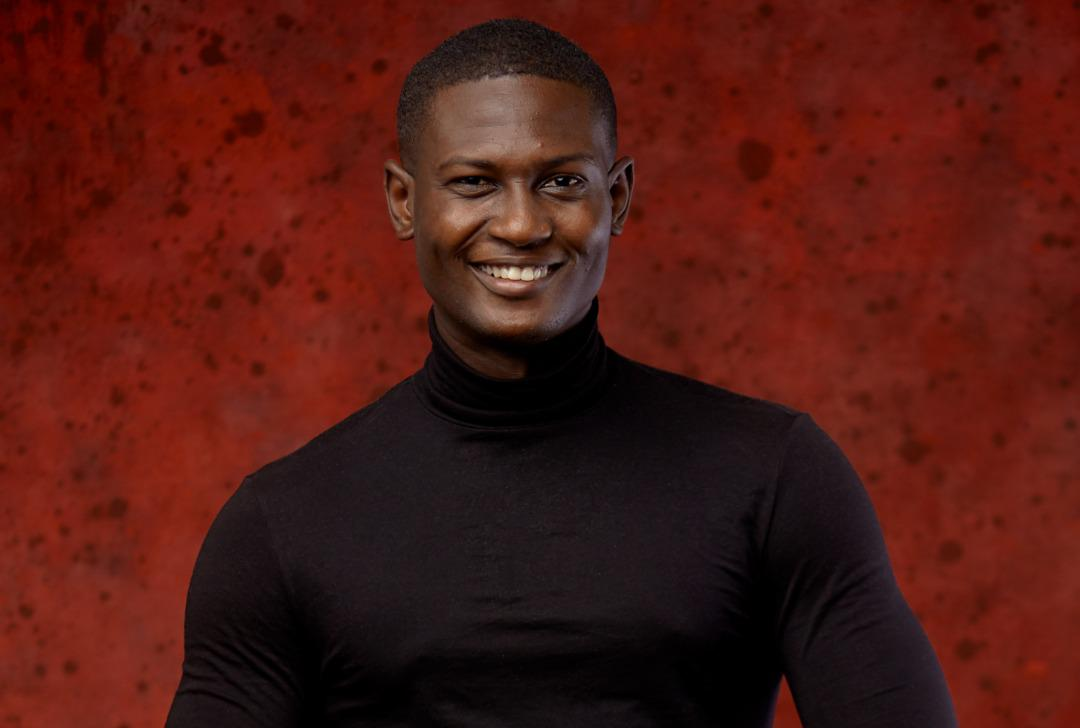
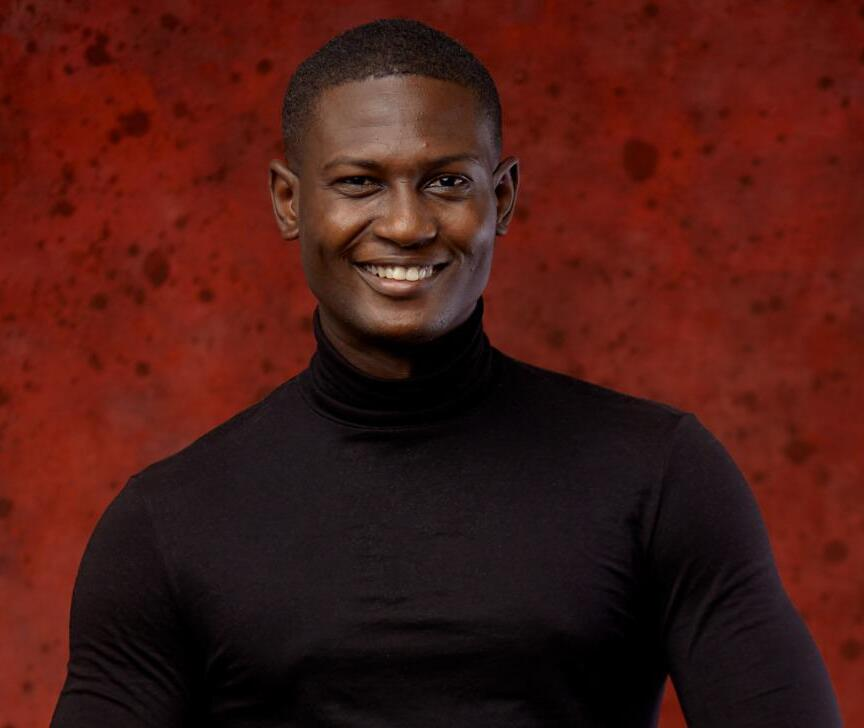
Changes to be committed: 	modified:   src/Assets/Images/Daniel.jpeg 	modified:   src/Assets/Images/Theophilus.jpeg 	modified:   src/Assets/Images/Yaa.jpeg 	new file:   src/Assets/Images/jalil.jpeg 	new file:   src/Assets/Images/peter.jpeg 	modified:   src/Assets/index.js 	modified:   src/components/

diff --git a/src/components/rebuild/Team/Team.jsx b/src/components/rebuild/Team/Team.jsx
@@ -1,9 +1,11 @@
 import images from "../../../Assets/"
-const {Daniel, Yaa, Theophilus} = images;
+const {Daniel, Yaa, Theophilus, jalil, peter} = images;
 const TeamMembers = [
     { name: 'Daniel Okyere', role: "Technical Lead", img_url: Daniel },
     { name: 'Yaa Amoakoah Frempong', role: "Team Lead", img_url: Yaa },
-    { name: 'Theophilus Gyamo', role: "Business Lead", img_url: Theophilus }
+    { name: 'Theophilus Gyamo', role: "Business Lead", img_url: Theophilus },
+    { name: 'Peter', role: "Team member", img_url:peter},
+    { name: 'Jalil', role: "Team member", img_url:jalil}
 ]
 function TeamImages() {
     return (
@@ -15,7 +17,7 @@ function TeamImages() {
                         TeamMembers.map(({name, role, img_url})=>(
                        <div className="col-md-6 col-lg-4" key={name}>
                             <div className="card text-center">
-                                <img src={img_url} alt="Card image cap" className="card-img-top"/>
+                                <img src={img_url} alt="Card image cap" className="card-img-top card_image"/>
                                 <div className="card-body">
                                     <h4 className="card-title">
                                         {name}

diff --git a/src/Assets/index.js b/src/Assets/index.js
@@ -1,8 +1,10 @@
 import Daniel from "./Images/Daniel.jpeg"
 import Yaa from "./Images/Yaa.jpeg"
 import Theophilus from "./Images/Theophilus.jpeg"
+import jalil from "./Images/jalil.jpeg"
+import peter from "./Images/peter.jpeg"
 
 const images = {
-    Daniel, Yaa, Theophilus
+    Daniel, Yaa, Theophilus, jalil, peter
 }
 export default images;

diff --git a/src/index.css b/src/index.css
@@ -12,6 +12,10 @@
   font-family: Poppins, sans-serif;
 }
 
+.card_image{
+  width:auto;
+  height: 350px;
+}
 
 
 .carousel-image{
